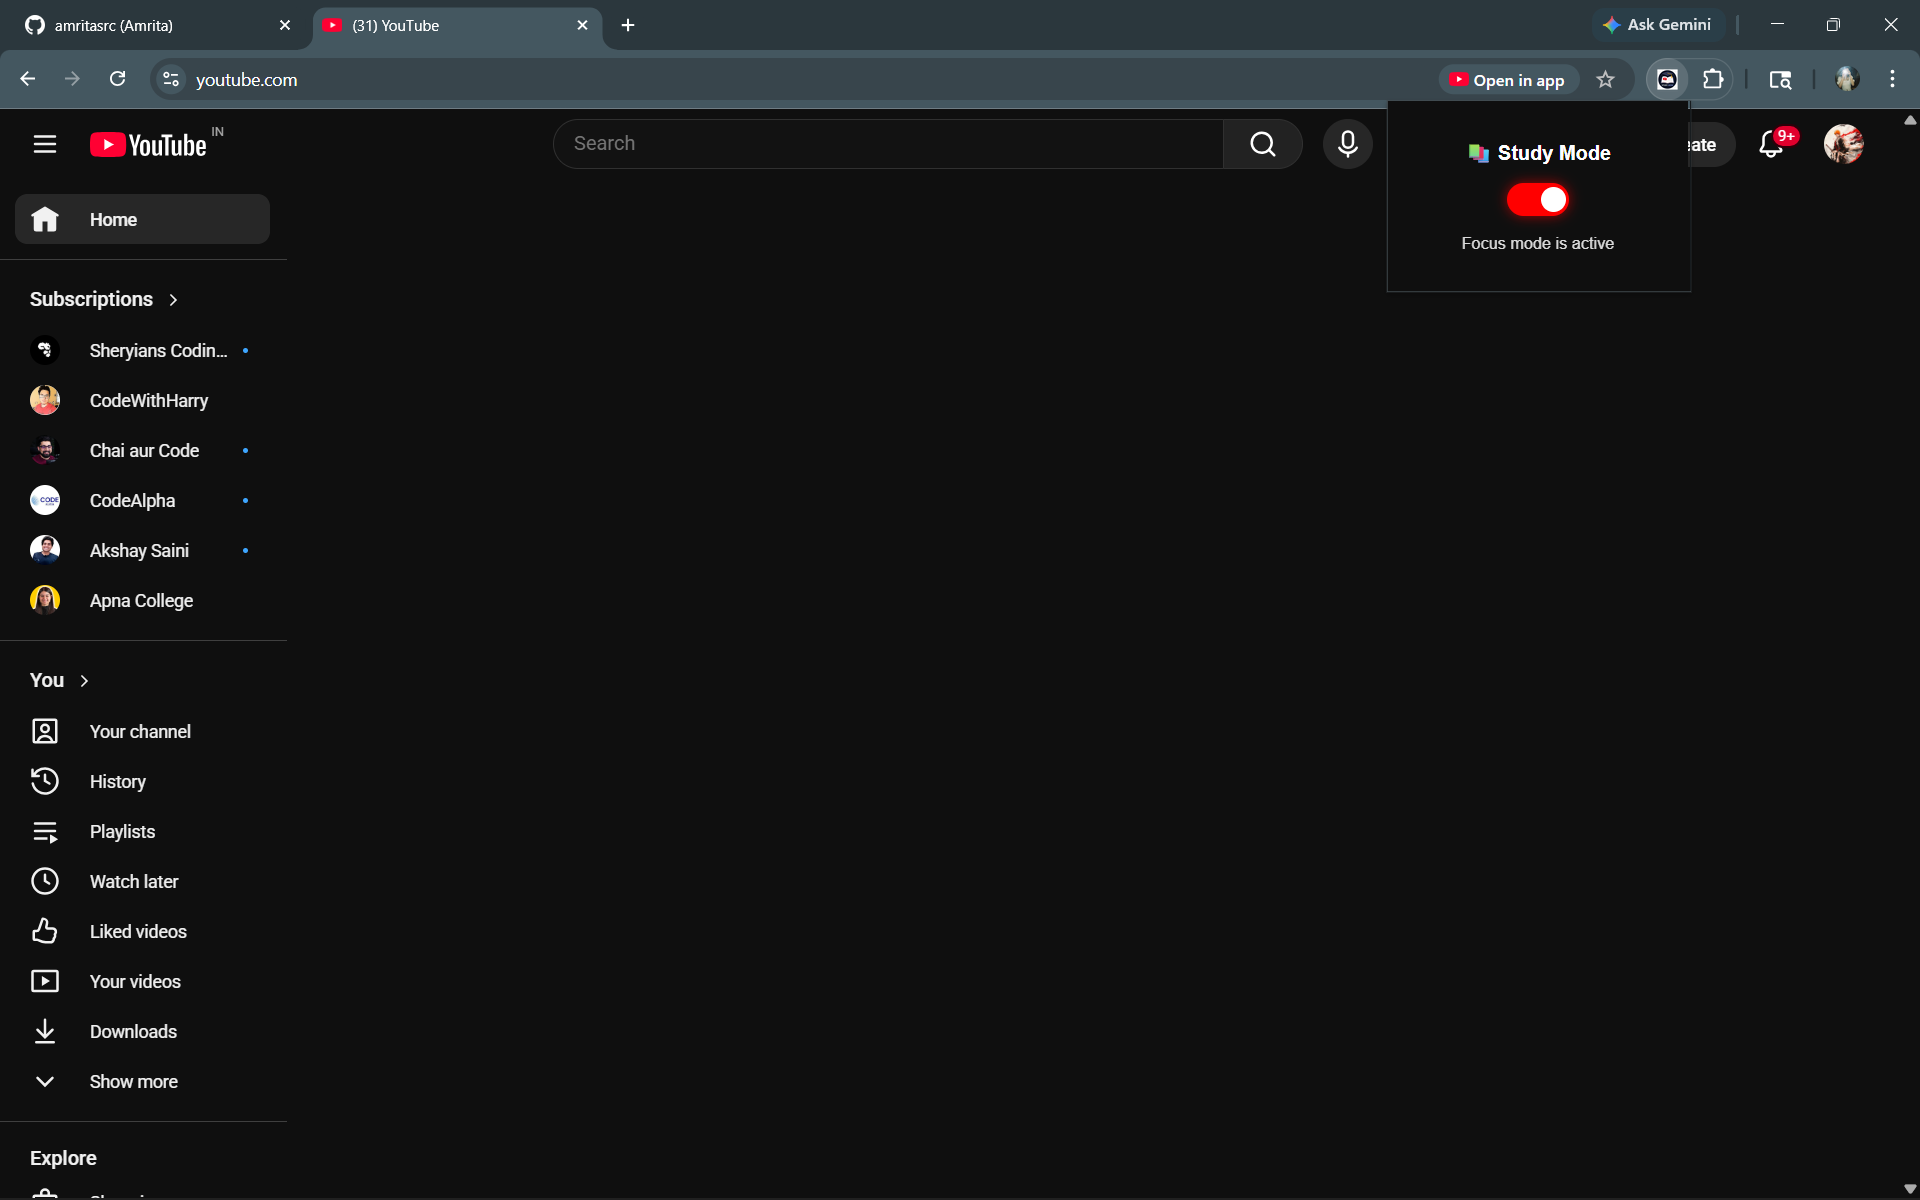
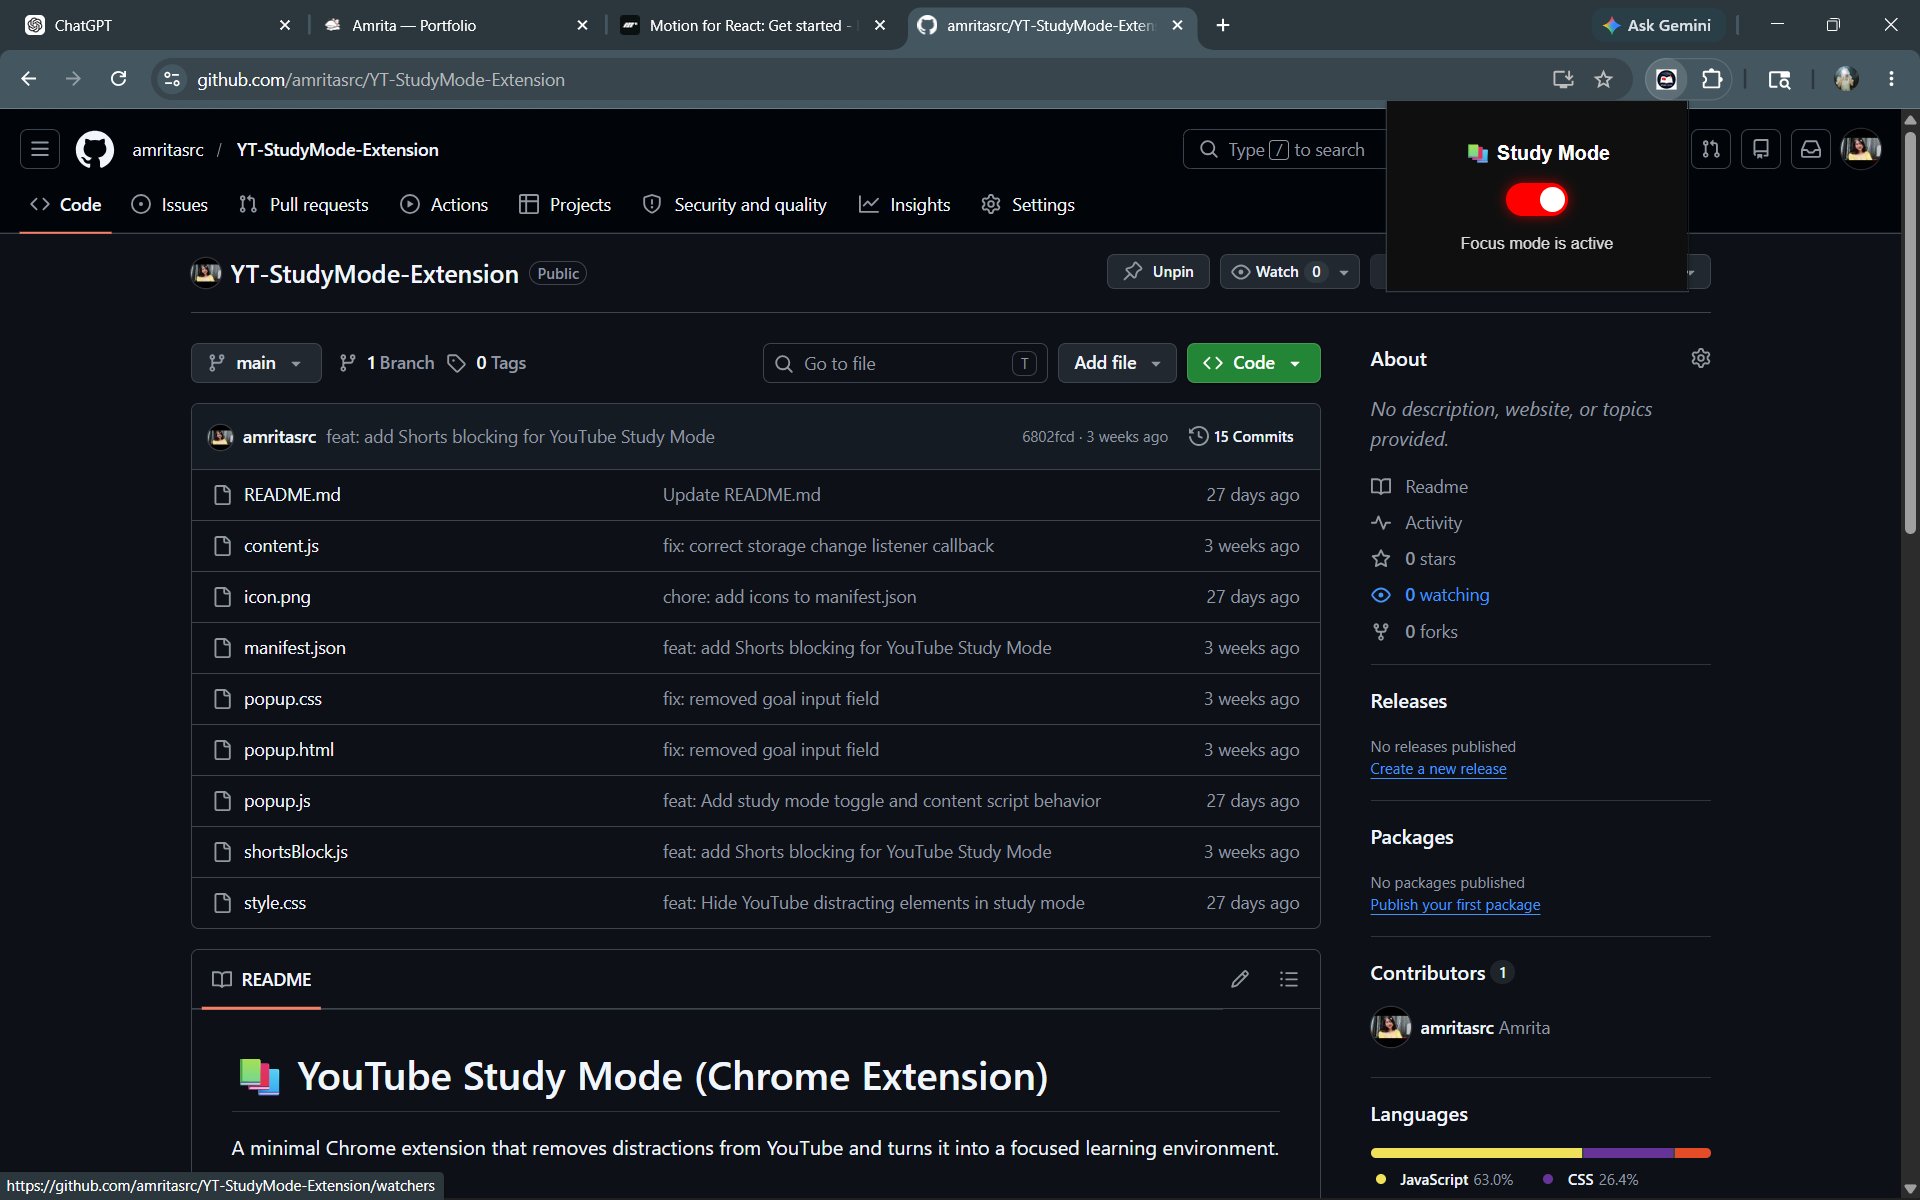
style: animate cards

diff --git a/src/Comps/ProjectCard.jsx b/src/Comps/ProjectCard.jsx
@@ -1,9 +1,18 @@
 import React from 'react'
+import { motion } from 'framer-motion';
 import { MdArrowOutward } from "react-icons/md";
 
-const ProjectCard = ({ imageSrc, projectName, link, projectDescrip }) => {
+const ProjectCard = ({ imageSrc, projectName, link, projectDescrip, githubLink }) => {
     return (
-        <div className="bg-white dark:bg-[#12100e] border border-zinc-300 dark:border-zinc-800 rounded-2xl overflow-hidden">
+        <motion.div
+            whileHover={{ scale: 1.04 }}
+            whileTap={{ scale: 0.95 }}
+            transition={{
+                type: "spring",
+                stiffness: 300,
+                damping: 20,
+            }}
+            className="bg-white dark:bg-[#12100e] border border-zinc-300 dark:border-zinc-800 rounded-2xl overflow-hidden">
 
             {/* Image header */}
             <div className="h-48 w-full overflow-hidden">
@@ -16,8 +25,11 @@ const ProjectCard = ({ imageSrc, projectName, link, projectDescrip }) => {
 
             {/* Content */}
             <div className="p-4">
-                <h3 className="flex justify-between items-center font-semibold">
-                    {projectName}
+                <h3 className="cursor-pointer flex justify-between items-center font-semibold">
+                    <a
+                        href={githubLink}
+                        target="_blank"
+                        rel="noopener noreferrer">{projectName}</a>
 
                     <a
                         href={link}
@@ -25,7 +37,7 @@ const ProjectCard = ({ imageSrc, projectName, link, projectDescrip }) => {
                         rel="noopener noreferrer"
                         className="px-4 py-1 text-xs bg-zinc-200 dark:bg-[#1f1b17] hover:bg-zinc-300 dark:hover:bg-zinc-800 rounded-2xl cursor-pointer transition-colors duration-200 ease-in-out flex items-center gap-0.5"
                     >
-                        Live <MdArrowOutward className='text-green-500'/>
+                        Live <MdArrowOutward className='text-green-500' />
                     </a>
 
                 </h3>
@@ -35,7 +47,7 @@ const ProjectCard = ({ imageSrc, projectName, link, projectDescrip }) => {
                 </p>
             </div>
 
-        </div>
+        </motion.div>
     )
 }
 

diff --git a/src/Comps/Button.jsx b/src/Comps/Button.jsx
@@ -1,14 +1,17 @@
 import React from 'react'
+import { motion } from 'framer-motion'
 
 const Button = ({ Icon, link }) => {
     return (
-        <a
+        <motion.a
+            whileHover={{ scale: 1.1 }}
+            whileTap={{ scale: 0.95 }}
             href={link}
             target='_blank'
             className='px-4 py-2 bg-zinc-200 dark:bg-[#1f1b17] hover:bg-zinc-300 dark:hover:bg-zinc-800 rounded-xl cursor-pointer transition-all duration-200 ease-in-out'
         >
             <Icon />
-        </a>
+        </motion.a>
     )
 }
 

diff --git a/src/Comps/Project.jsx b/src/Comps/Project.jsx
@@ -8,10 +8,11 @@ const Project = () => {
                 Projects
             </h2>
 
-            <div className="grid grid-cols-1 gap-3 p-2 sm:grid-cols-2">
+            <div className="grid grid-cols-1 gap-4 p-2 sm:grid-cols-2">
 
                 <ProjectCard
                 imageSrc="/expense-tracker.png"
+                githubLink="https://github.com/amritasrc/Expense-Tracker"
                 projectName="Expense Tracker"
                 link="https://expense-tracker-orcin-tau-32.vercel.app/"
                 projectDescrip="A web app for tracking daily expenses, allowing users to add, categorize, and manage spending with real-time total calculation and a simple user-friendly interface."
@@ -19,6 +20,7 @@ const Project = () => {
 
                 <ProjectCard
                     imageSrc="/yt-studymode.png"
+                    githubLink="https://github.com/amritasrc/YT-StudyMode-Extension"
                     projectName="YouTube StudyMode Extension"
                     link="https://github.com/amritasrc/YT-StudyMode-Extension"
                     projectDescrip="A browser extension that removes distractions from YouTube by hiding recommendations and comments, helping users stay focused on study content."
@@ -26,6 +28,7 @@ const Project = () => {
 
                 <ProjectCard
                     imageSrc="./aniverse.png"
+                    githubLink="https://github.com/amritasrc/AniVerse"
                     projectName="Aniverse"
                     link="https://ani-verse-lake.vercel.app/"
                     projectDescrip="A web app built using an anime API that lets users explore, search, and discover anime with details like ratings, genres, and summaries in a clean, interactive interface."
@@ -33,6 +36,7 @@ const Project = () => {
 
                 <ProjectCard
                     imageSrc="/background-gradient.png"
+                    githubLink="https://github.com/amritasrc/Background-gradient-generator"
                     projectName="Background Gradient Generator"
                     link="https://background-gradient-generator-inky.vercel.app/"
                     projectDescrip="A web tool that lets users create and customize CSS gradients in real time. It supports multiple gradient types, live preview, and instant CSS code copy, making UI design faster and more efficient."

diff --git a/src/index.css b/src/index.css
@@ -9,6 +9,7 @@ html {
 body {
   margin: 0;
   padding: 0;
+  box-sizing: border-box;
 }
 
 .normal-cursor {